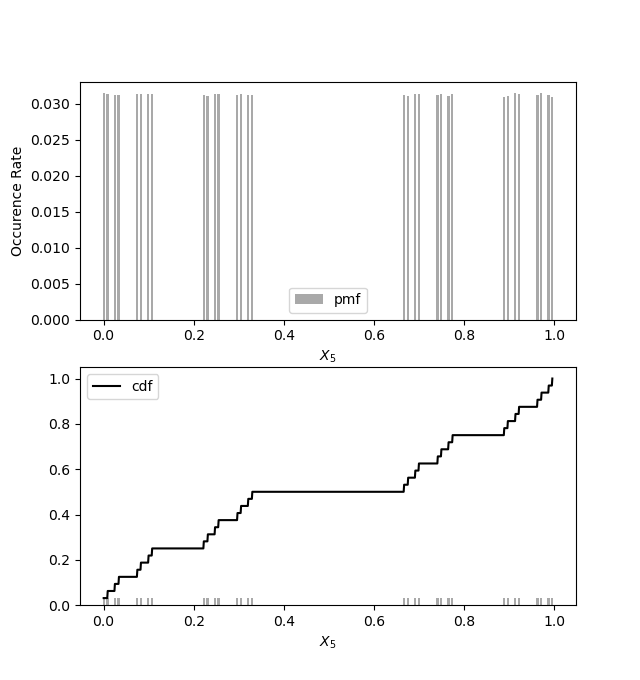
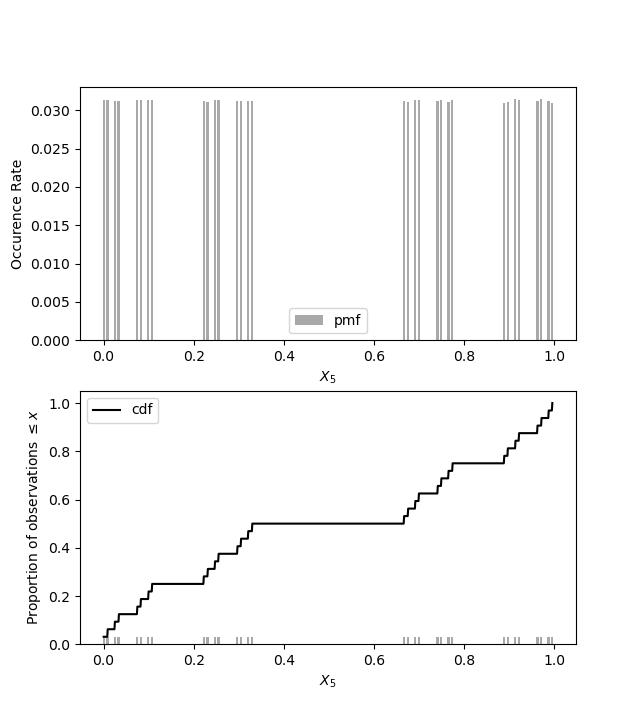
Add problem 2 plots and code.

diff --git a/STATS509/HW2/HW2Code/problem2.py b/STATS509/HW2/HW2Code/problem2.py
@@ -1,0 +1,59 @@
+import numpy as np
+import scipy.stats as stats
+import matplotlib.pyplot as plt
+np.random.seed(0)
+
+
+def problem2(n=500, lambd=2):
+    """Instantiates an scaled exponential random variable, draws n samples from
+    it and calculates an empirical CDF at a 1000 evenly spaced points in the
+    range of the drawn samples.
+
+    Parameters
+    ----------
+    n : `int`
+        number of samples drawn from the distribution
+    lambd : `float`
+        The rate parameter ``lambda*exp(-lambda*x)`` from which scale will be
+        calculated from as ``/lambda``
+
+    Returns
+    -------
+    x : `np.array`
+        Points at which empirical CDF was evaluated at
+    empiricalCDF : `np.array`
+        Empirical CDF evaluated for points in ``x``
+
+    """
+    scale = 1/lambd
+    rv = stats.expon(scale=scale)
+    expSamples = rv.rvs(size=n)
+
+    x = np.linspace(0, max(expSamples), 1000)
+    empiricalCDF = []
+    for i in x:
+        empiricalCDF.append(np.sum(expSamples <= i))
+
+    empiricalCDF = np.array(empiricalCDF)/n
+    exactCDF = rv.cdf(x)
+
+    return x, empiricalCDF, exactCDF
+
+
+def plot2():
+    """Plots problem 2."""
+    fig, ax = plt.subplots()
+
+    x, empiricalCDF, exactCDF = problem2()
+
+    ax.plot(x, empiricalCDF, 'black', label="Empirical CDF")
+    ax.plot(x, exactCDF, 'darkgray',  label="Exact CDF")
+
+    ax.set_xlabel("x")
+    ax.set_ylabel("Proportion of observations $\leq x$")
+    ax.legend()
+    plt.show()
+
+
+if __name__ == "__main__":
+    plot2()

diff --git a/STATS509/HW2/HW2Code/HW2_Problem1.py b/STATS509/HW2/HW2Code/HW2_Problem1.py
@@ -54,13 +54,14 @@ def plot1c():
     cumsum = []
     for x in xs:
         cumsum.append(np.sum(simEarnings <= x))
-    cumsum = np.array(cumsum) / n  
+    cumsum = np.array(cumsum)/n
     axes[1].plot(xs, cumsum, 'black', label="cdf")
 
     for ax in axes:
         ax.set_xlabel("$X_5$")
         ax.legend()
     axes[0].set_ylabel("Occurence Rate")
+    plt.ylabel("Proportion of observations $\leq x$")
     plt.show()
 
 
